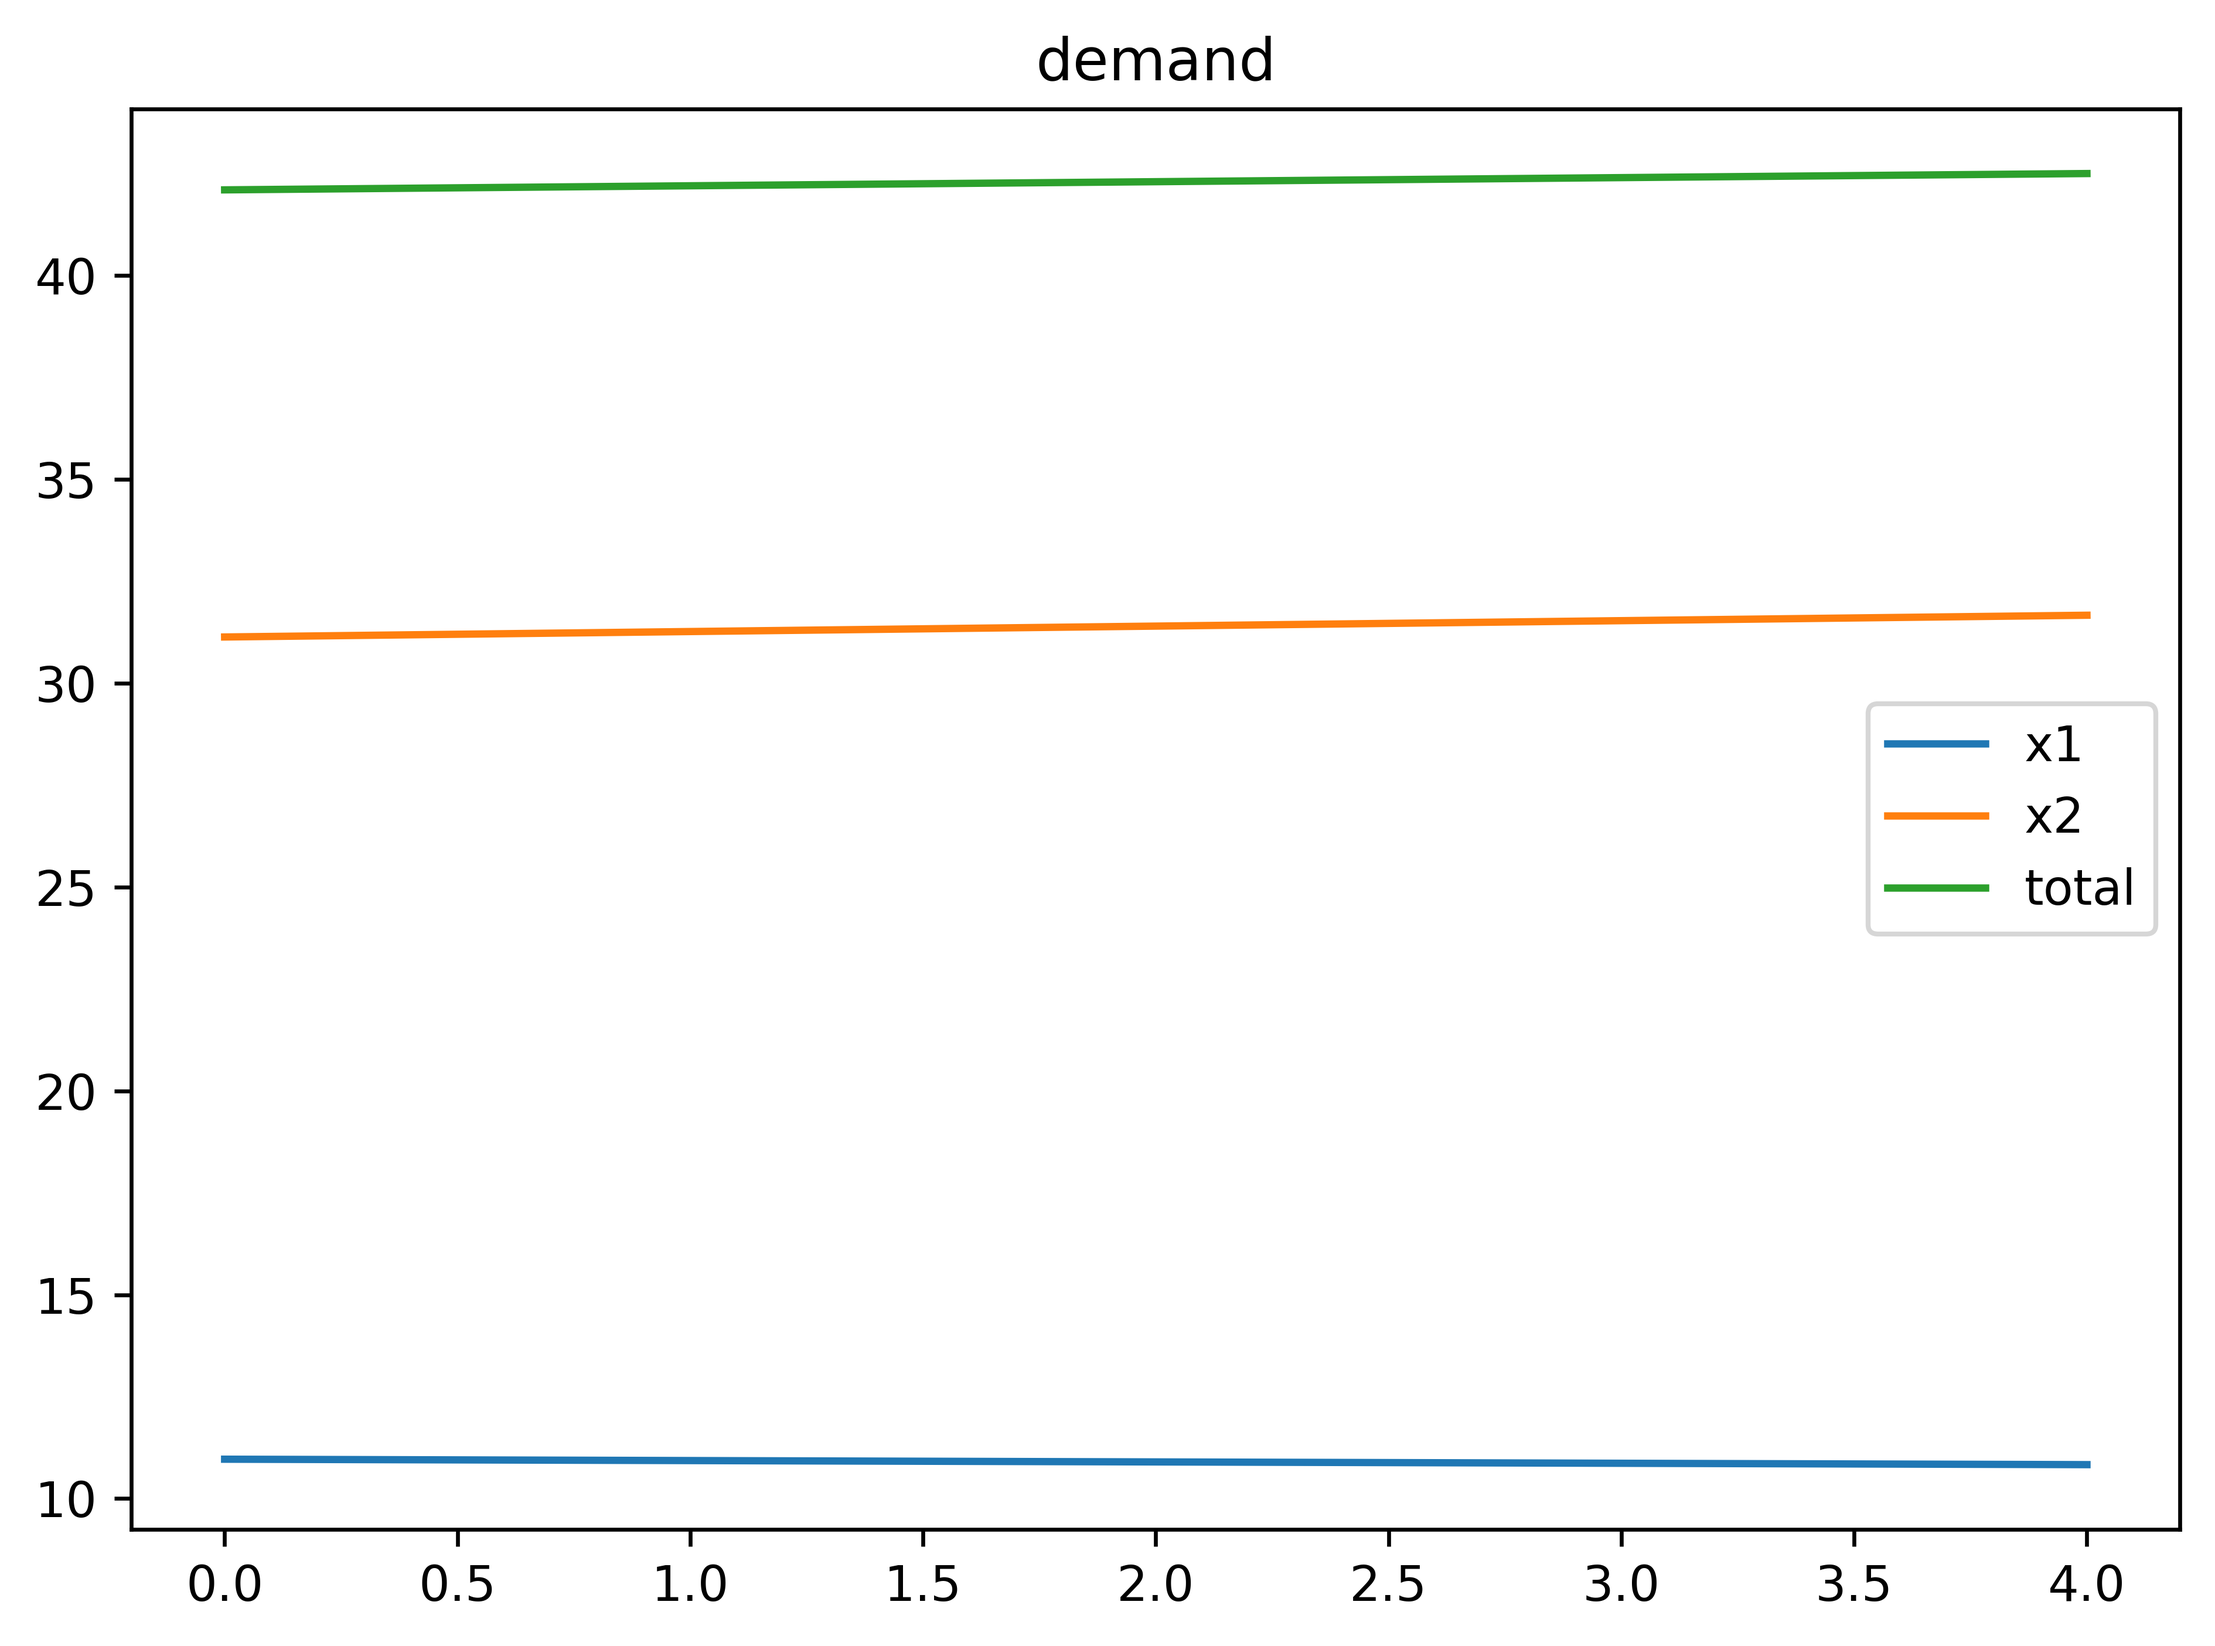
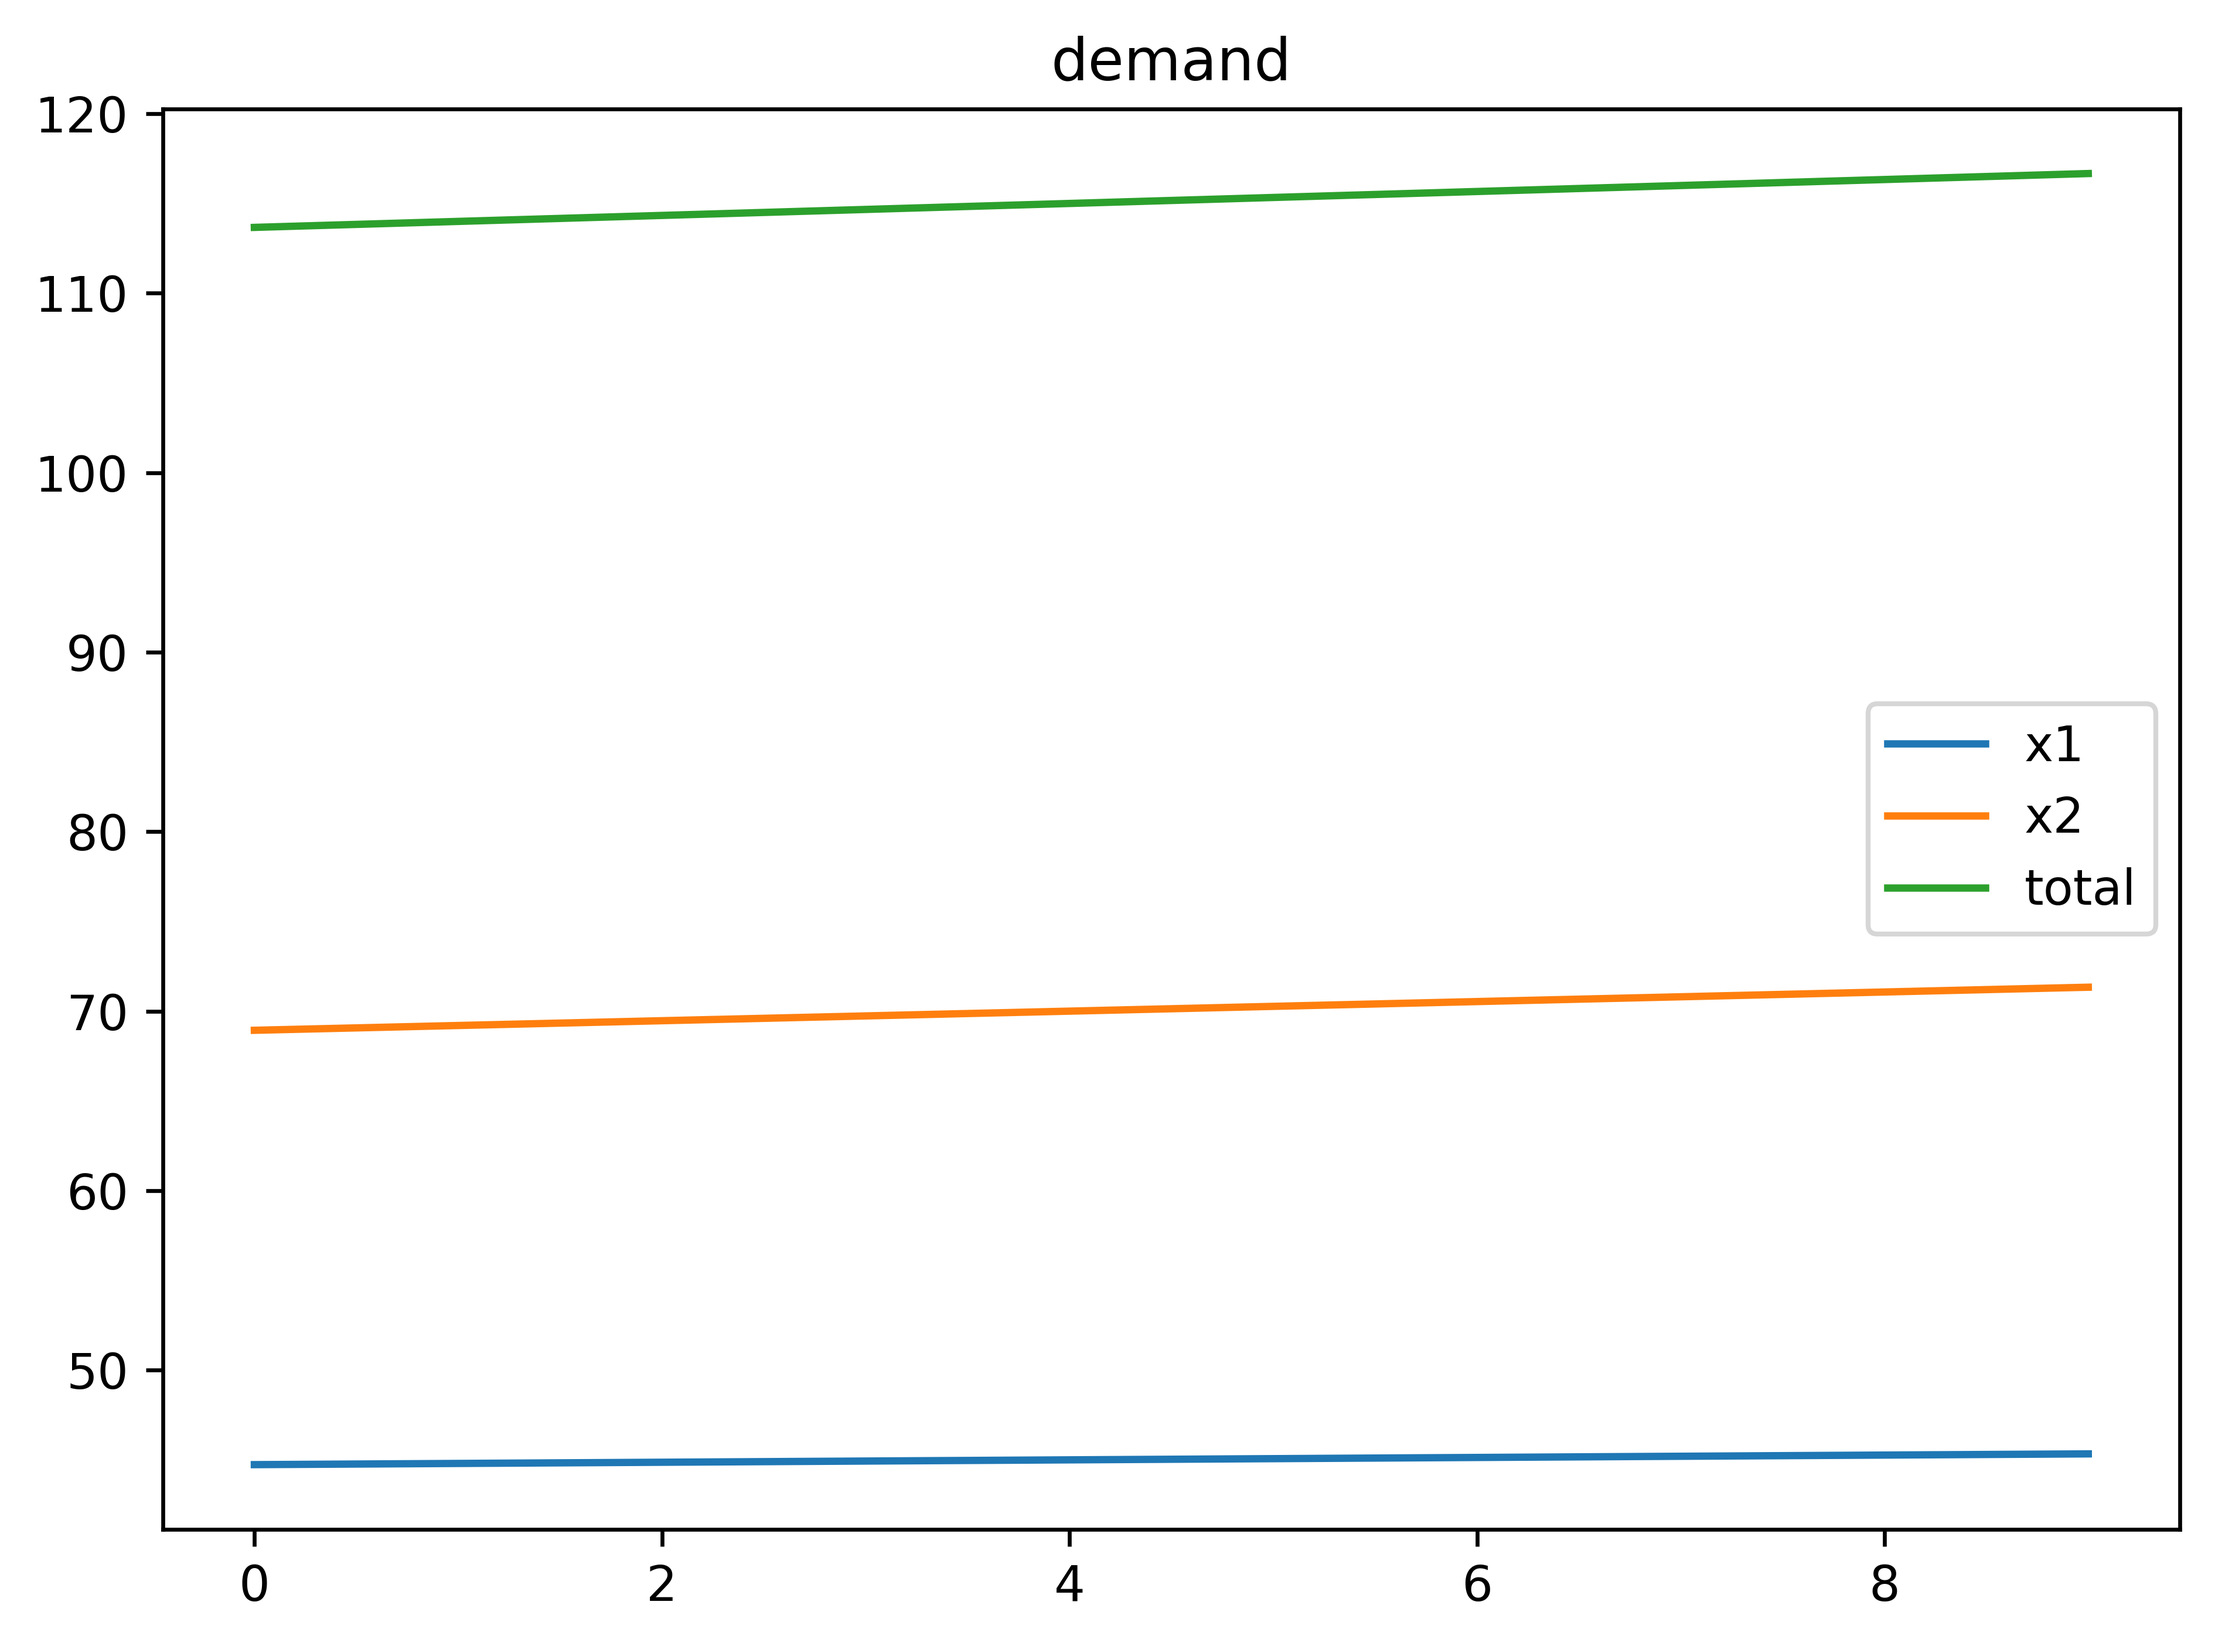
initial nonlinear op2 profit

diff --git a/MyFuncs.py b/MyFuncs.py
@@ -126,7 +126,7 @@ def test_one_ParaSet(case_id: int, _para: ps.ParaClass()):
     operators[2].time = _para.travel_time[2]
 
 
-    for i in range(0, 5):
+    for i in range(0, 10):
         _para.discount_ratio = 0.05*(i+1)
         operators[1].discount = get_discont_val(
             operators[0].time, operators[1].time, _para)
@@ -135,6 +135,7 @@ def test_one_ParaSet(case_id: int, _para: ps.ParaClass()):
             print("error: the op2 price after discout is negative")
             input()
         get_x(_para, operators)
+        print("{0},{1}".format(operators[0].numpas,operators[1].numpas))
         update_ProfitAndCost(_para, operators)
         x1_list.append(operators[0].numpas)
         x2_list.append(operators[1].numpas)
@@ -178,5 +179,10 @@ def test_one_ParaSet(case_id: int, _para: ps.ParaClass()):
     plt.pause(2)
     plt.tight_layout()
     plt.savefig("proft_case_"+str(case_id)+".png",bbox_inches='tight',dpi=600) 
+    plt.close()
+    plt.plot(op2_profit, label='op2')
+    plt.title("Op2 Profit")
+    plt.ion()
+    plt.savefig("Op2Profit"+str(case_id)+".png",bbox_inches='tight',dpi=600) 
     plt.close()
     # step 3: plot

diff --git a/main.py b/main.py
@@ -11,12 +11,17 @@ if __name__ == '__main__':
     main
     """
     para = ps.ParaClass()
-    para.price = [5, 5]
-    para.travel_time = [20, 10, 15]
+    para.price = [10, 10]
+    para.travel_time = [30, 20, 15]
+    para.m = 1
+    para.g = 0.25
     with open('TestResults.txt', 'w+') as f:
-        print("TestId,Price1,Price2,Time1,Time2,Time3,DiscountRatio,m,g,x1,x2,profit1,profit2,opCost1,opCost2",file=f)
+        print("TestId,Price1,Price2,Time1,Time2,Time3,DiscountRatio,m,g,x1,x2,profit1,profit2,opCost1,opCost2", file=f)
     mf.test_one_ParaSet(case_id=1, _para=para)
 
-    para.price = [10, 10]
-    para.travel_time = [20, 15, 15]
-    mf.test_one_ParaSet(case_id=2, _para=para)
+    # para.g = -0.25
+    # mf.test_one_ParaSet(case_id=2, _para=para)
+
+    # para.price = [10, 10]
+    # para.travel_time = [20, 15, 15]
+    # mf.test_one_ParaSet(case_id=2, _para=para)

diff --git a/ParaScript.py b/ParaScript.py
@@ -4,14 +4,14 @@
 
 class ParaClass(object):
     def __init__(self):
-        self.opCostPerPas = 0.5
+        self.opCostPerPas = 0.0
         self.val_of_time = 1.5 # value of travel time
-        self.discount_ratio= 0.1
+        self.discount_ratio= 0.2
         self.m = 2
         # self.g = -0.5
         self.g = 0.5
         self.a1 = 100
-        self.a2  = 100
+        self.a2  = 50
         self.price = []
         self.travel_time = []
         pass
